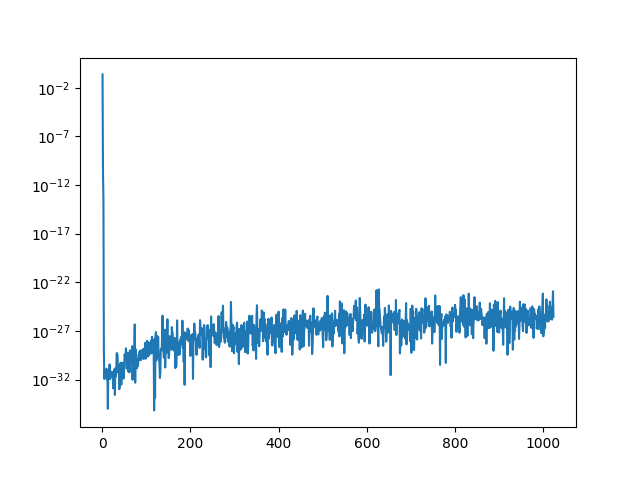
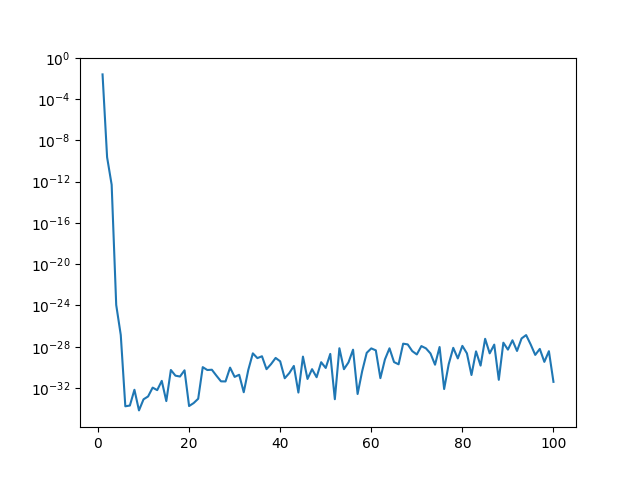
Plots 2M

diff --git a/simulation.py b/simulation.py
@@ -3,14 +3,14 @@ from tools import *
 # SIMULATION PARAMETERS
 
 # Total time = time*dt
-time = 10000
+time = 2000000
 dt = 1e-1
 
 #"Time checkpoints"
-tc = [0,1000,10000,100000,200000,400000,500000]
+tc = [0,1000,10000,100000,200000,400000,500000,1000000,1500000,2000000]
 
 #Size of the system / number of particles
-N = 1023
+N = 100
 
 # Potential parameters
 alpha = -1.0
@@ -23,7 +23,7 @@ pot_par = (alpha,beta)
 #We excite the first mode (n=1)
 #Stationary wave y = 2*A*sin(kx), k=2*pi/lambda, lambda=2*L/x, x/L = i/N
 v = np.zeros(N+2)
-A = 25
+A = 1 # such that the total energy is of the order of N*10^-4
 x = np.array([A*np.sin(np.pi*i/(N+1)) for i in range(N+2)])
 
 #initial energy per mode
@@ -41,12 +41,3 @@ for i in range(E.shape[0]):
     ax.plot(k,E[i,:]) #, linefmt=':', markerfmt='C0.')
     ax.set_yscale('log')
     plt.savefig('./plots/energy_modes_{}.png'.format(tc[i]))
-
-# Calculate Ek for 1 <= k <= N
-# Plot Ek w.r.t. k
-# Repeat for different values of time
-
-
-# chat zone
-'''
-'''
